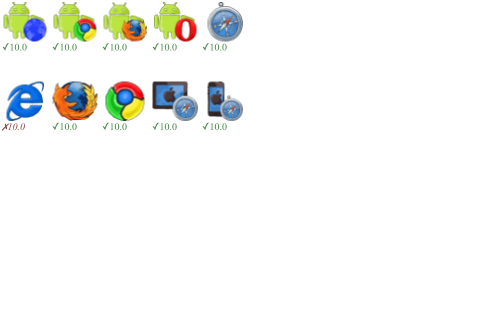
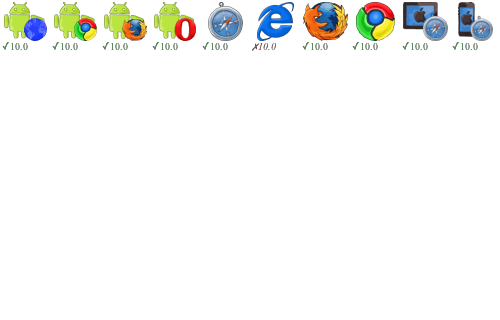
use zoomFactor is better

diff --git a/lib/render.js b/lib/render.js
@@ -4,9 +4,11 @@ var page = require('webpage').create(),
     png = system.args[2] || (encodeURIComponent(url) + '.png');
 
 page.viewportSize = {
-  width: system.args[3] || 500,
-  height: system.args[4] || 320
+  width: system.args[4] || 500,
+  height: system.args[5] || 320
 };
+
+page.zoomFactor = system.args[3] || 1;
 
 // Open the Page, then save the png
 page.open(url, function (status) {

diff --git a/lib/index.html b/lib/index.html
@@ -2,7 +2,6 @@
 <head>
 <style>
 html, body{margin:0;padding:0}
-html{;;transform:scale(1);-webkit-transform:scale(1);transform-origin:0 0;-webkit-transform-origin:0 0;}
 img{display:inline}
 p {margin:0;color:#484;text-align:left}
 i {display:block;color:#844;text-align:left}

diff --git a/README.md b/README.md
@@ -33,7 +33,7 @@ badge-render examples/all_browsers_pass.json lib/index.html --png test.png
 
 **Options: Scale the html and png**
 
-This feature is supported by updating CSS in template.
+This feature is supported by updating PhantomJS zoomFactor.
 
 ```sh
 badge-render examples/all_browsers_pass.json lib/index.html --png examples/scale.png --scale 0.5
